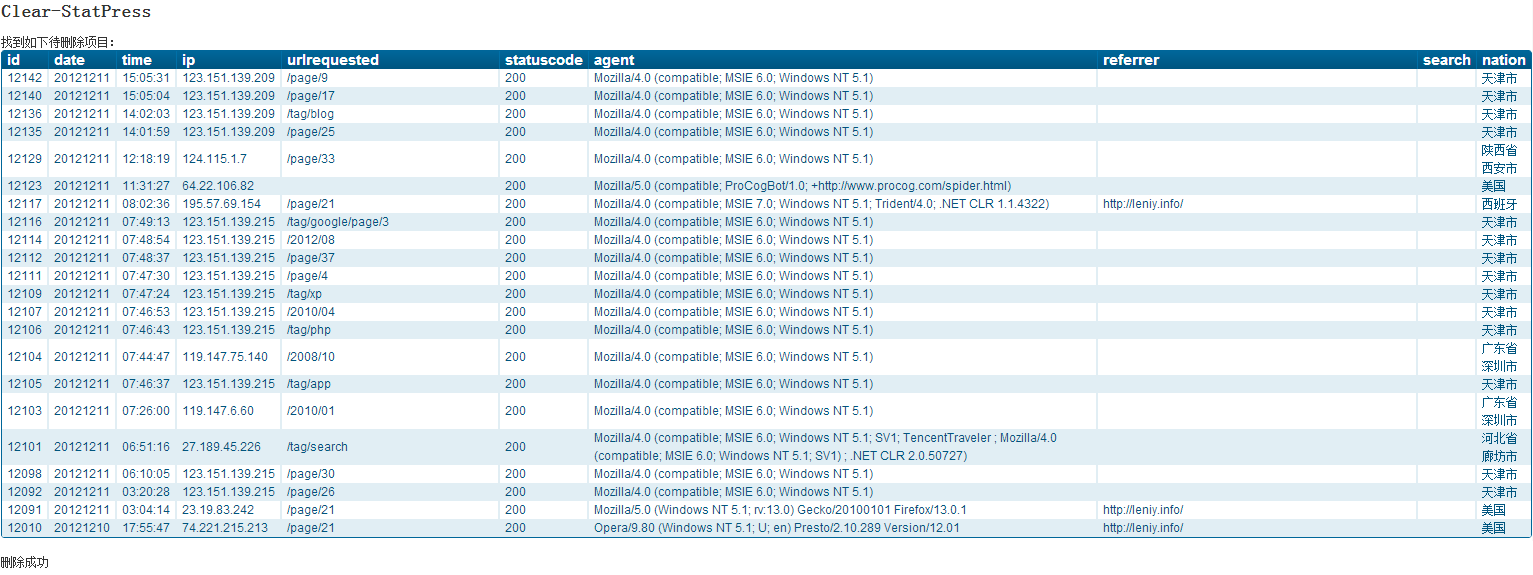
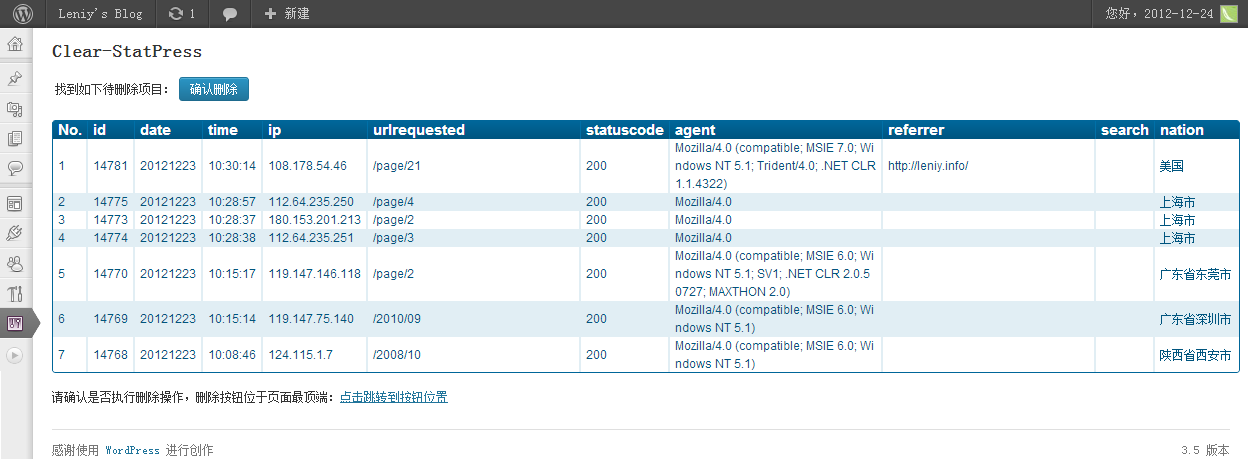
Fix some bug;Optimize page display
git-svn-id: http://plugins.svn.wordpress.org/clear-statpress/trunk@643933 b8457f37-d9ea-0310-8a92-e5e31aec5664

diff --git a/Clear-StatPress.php b/Clear-StatPress.php
@@ -3,7 +3,7 @@
 	Plugin Name: Clear StatPress CN
 	Plugin URI: http://blog.leniy.info/clear-statpress.html
 	Description: 我安装的statpress插件，虽然设置了不记录蜘蛛访问记录，但有些不表明身份的蜘蛛的访问数据仍然会保存，严重占用数据库空间。登陆后台phpmyadmin太麻烦了，刚刚粗略的学习了下插件制作，写了个简单的插件，执行清理作业。
-	Version: 1.1
+	Version: 1.2
 	Author: leniy
 	Author URI: http://blog.leniy.info/
 */
@@ -31,90 +31,58 @@ function qw_CSP_menu() {
 }
 
 function qw_CSP_page() {
-	echo "<h2>Clear-StatPress</h2>";
+	echo "<div id=\"CSPbutton\"></div><h2>Clear-StatPress</h2>";
 	CSP_sql_del();
 }
 
 function CSP_sql_del() {
 	global $wpdb;
+//下面的是查询规则，及sql语句where后面的部分
 	$query_temp = "
-    `urlrequested` LIKE  '%/page%'
-OR  `urlrequested` LIKE  '%/tag%'
-OR  `urlrequested` LIKE  '%/category%'
-OR  `urlrequested` LIKE  '%/2006%'
-OR  `urlrequested` LIKE  '%/2007%'
-OR  `urlrequested` LIKE  '%/2008%'
-OR  `urlrequested` LIKE  '%/2009%'
-OR  `urlrequested` LIKE  '%/2010%'
-OR  `urlrequested` LIKE  '%/2011%'
-OR  `urlrequested` LIKE  '%/2012%'
-OR  `urlrequested` LIKE  '%/2013%'
-OR  `agent` LIKE  '%bot%'
-OR  `agent` LIKE  '%PHP/%'
-OR ( `agent` LIKE  '%http%' AND `agent` NOT LIKE  '%liferea%' AND `agent` NOT LIKE  '%google%' AND `agent` NOT LIKE  '%sixxs%')
-OR  `agent` LIKE  '%spide%'
-OR ( `urlrequested` =  '' AND  `statuscode` =  '' AND  `referrer` =  '')
-OR ( `urlrequested` =  '' AND  `referrer` =  ''  AND  `browser` =  '' AND  `os` =  '')
+	`agent` LIKE  '%bot%'
+	OR (
+		`search` =  ''
+		AND (
+			`urlrequested` LIKE  '%/page%'
+		OR  `urlrequested` LIKE  '%/tag%'
+		OR  `urlrequested` LIKE  '%/category%'
+		OR  `urlrequested` LIKE  '%/2006%'
+		OR  `urlrequested` LIKE  '%/2007%'
+		OR  `urlrequested` LIKE  '%/2008%'
+		OR  `urlrequested` LIKE  '%/2009%'
+		OR  `urlrequested` LIKE  '%/2010%'
+		OR  `urlrequested` LIKE  '%/2011%'
+		OR  `urlrequested` LIKE  '%/2012%'
+		OR  `urlrequested` LIKE  '%/2013%'
+			)
+		)
+	OR  `agent` LIKE  '%PHP/%'
+	OR (
+			`agent` LIKE  '%http%'
+		AND `agent` NOT LIKE  '%liferea%'
+		AND `agent` NOT LIKE  '%google%'
+		AND `agent` NOT LIKE  '%sixxs%'
+		)
+	OR  `agent` LIKE  '%spide%'
+	OR (
+			`urlrequested` =  ''
+		AND `statuscode` =  ''
+		AND `referrer` =  ''
+		)
+	OR (
+			`urlrequested` =  ''
+		AND `referrer` =  ''
+		AND `browser` =  ''
+		AND `os` =  ''
+		)
 ";
+//然后生成查询和删除的完整语句
 	$query_sel = "SELECT* FROM " . $wpdb->prefix . 'statpress '." WHERE " . $query_temp;
 	$query_del = "DELETE  FROM " . $wpdb->prefix . 'statpress '." WHERE " . $query_temp;
 
 	$output = $wpdb->get_results($query_sel);
-	echo "
-	<table>
-		<td>找到如下待删除项目：</td>
-		<td><form method=\"post\"><input type=\"submit\" name=\"confirmdel\" value=\"确认删除\" class=\"button-primary\" /></form></td>
-	</table>
-	<br>";
-	echo "<div class=\"datagrid\"><table>
-<!--	<colgroup>
-		<col class=\"colno\" />
-		<col class=\"colid\" />
-		<col class=\"coldate\" />
-		<col class=\"coltime\" />
-		<col class=\"colip\" />
-		<col class=\"colurlrequested\" />
-		<col class=\"colstatuscode\" />
-		<col class=\"colagent\" />
-		<col class=\"colreferrer\" />
-		<col class=\"colsearch\" />
-		<col class=\"colnation\" />
-	</colgroup>
--->	<thead><tr>
-		<th>No.</th>
-		<th>id</th>
-		<th>date</th>
-		<th>time</th>
-		<th>ip</th>
-		<th>urlrequested</th>
-		<th>statuscode</th>
-		<th>agent</th>
-		<th>referrer</th>
-		<th>search</th>
-		<th>nation</th>
-	</tr></thead>
 
-	<tbody>";
-	$tempcolor = 0;//用来使表格两行背景颜色不同
-	$tempNo = 1;//用来记录第几行
-	foreach ($output as $o) {
-		if($tempcolor == 0) { echo "<tr>"; $tempcolor = 1;}
-		else { echo "<tr class=\"alt\">"; $tempcolor = 0;}
-		echo "<td>" . $tempNo . "</td>";
-		$tempNo = $tempNo + 1;
-		echo "<td style=\"word-break:break-all;\">" . $o->id . "</td>";
-		echo "<td style=\"word-break:break-all;\">" . $o->date . "</td>";
-		echo "<td style=\"word-break:break-all;\">" . $o->time . "</td>";
-		echo "<td style=\"word-break:break-all;\">" . $o->ip . "</td>";
-		echo "<td style=\"word-break:break-all;max-width:200px;\">" . $o->urlrequested . "</td>";
-		echo "<td style=\"word-break:break-all;\">" . $o->statuscode . "</td>";
-		echo "<td style=\"word-break:break-all;max-width:200px;\">" . $o->agent . "</td>";
-		echo "<td style=\"word-break:break-all;max-width:200px;\">" . $o->referrer . "</td>";
-		echo "<td style=\"word-break:break-all;\">" . $o->search . "</td>";
-		echo "<td style=\"word-break:break-all;\">" . $o->nation . "</td>";
-		echo "</tr>";
-	}
-	echo "</tbody></table></div>";
+//首先加载css样式
 ?>
 <style text="text/css">
 .datagrid table {
@@ -177,13 +145,74 @@ OR ( `urlrequested` =  '' AND  `referrer` =  ''  AND  `browser` =  '' AND  `os` 
 .colnation{width: 100%;};*/
 </style>
 <?php
+
+//然后开始显示确认删除按钮
+	echo "
+	<table>
+		<td>找到如下待删除项目：</td>
+		<td><form method=\"post\"><input type=\"submit\" name=\"confirmdel\" value=\"确认删除\" class=\"button-primary\" /></form></td>
+	</table>
+	<br>";
+
+//下面是查询到的详细数据
+	echo "<div class=\"datagrid\"><table>
+<!--	<colgroup>
+		<col class=\"colno\" />
+		<col class=\"colid\" />
+		<col class=\"coldate\" />
+		<col class=\"coltime\" />
+		<col class=\"colip\" />
+		<col class=\"colurlrequested\" />
+		<col class=\"colstatuscode\" />
+		<col class=\"colagent\" />
+		<col class=\"colreferrer\" />
+		<col class=\"colsearch\" />
+		<col class=\"colnation\" />
+	</colgroup>
+-->	<thead><tr>
+		<th>No.</th>
+		<th>id</th>
+		<th>date</th>
+		<th>time</th>
+		<th>ip</th>
+		<th>urlrequested</th>
+		<th>statuscode</th>
+		<th>agent</th>
+		<th>referrer</th>
+		<th>search</th>
+		<th>nation</th>
+	</tr></thead>
+
+	<tbody>";
+	$tempcolor = 0;//用来使表格两行背景颜色不同
+	$tempNo = 1;//用来记录第几行
+	foreach ($output as $o) {
+		if($tempcolor == 0) { echo "<tr>"; $tempcolor = 1;}
+		else { echo "<tr class=\"alt\">"; $tempcolor = 0;}
+		echo "<td>" . $tempNo . "</td>";
+		$tempNo = $tempNo + 1;
+		echo "<td style=\"word-break:break-all;\">" . $o->id . "</td>";
+		echo "<td style=\"word-break:break-all;\">" . $o->date . "</td>";
+		echo "<td style=\"word-break:break-all;\">" . $o->time . "</td>";
+		echo "<td style=\"word-break:break-all;\">" . $o->ip . "</td>";
+		echo "<td style=\"word-break:break-all;max-width:200px;\">" . $o->urlrequested . "</td>";
+		echo "<td style=\"word-break:break-all;\">" . $o->statuscode . "</td>";
+		echo "<td style=\"word-break:break-all;max-width:200px;\">" . $o->agent . "</td>";
+		echo "<td style=\"word-break:break-all;max-width:200px;\">" . $o->referrer . "</td>";
+		echo "<td style=\"word-break:break-all;\">" . $o->search . "</td>";
+		echo "<td style=\"word-break:break-all;\">" . $o->nation . "</td>";
+		echo "</tr>";
+	}
+	echo "</tbody></table></div>";
+
+
 	//这儿开始执行删除操作
 	if($_POST['confirmdel'] != "") {
 		$wpdb->query($query_del);
 		echo "<br>删除成功";
 	}
 	else {
-		echo "<br>请确认是否执行删除操作，删除按钮位于页面最顶端";
+		echo "<br>请确认是否执行删除操作，删除按钮位于页面最顶端：<a href=\"#CSPbutton\">点击跳转到按钮位置</a>";
 	}
 }
 
